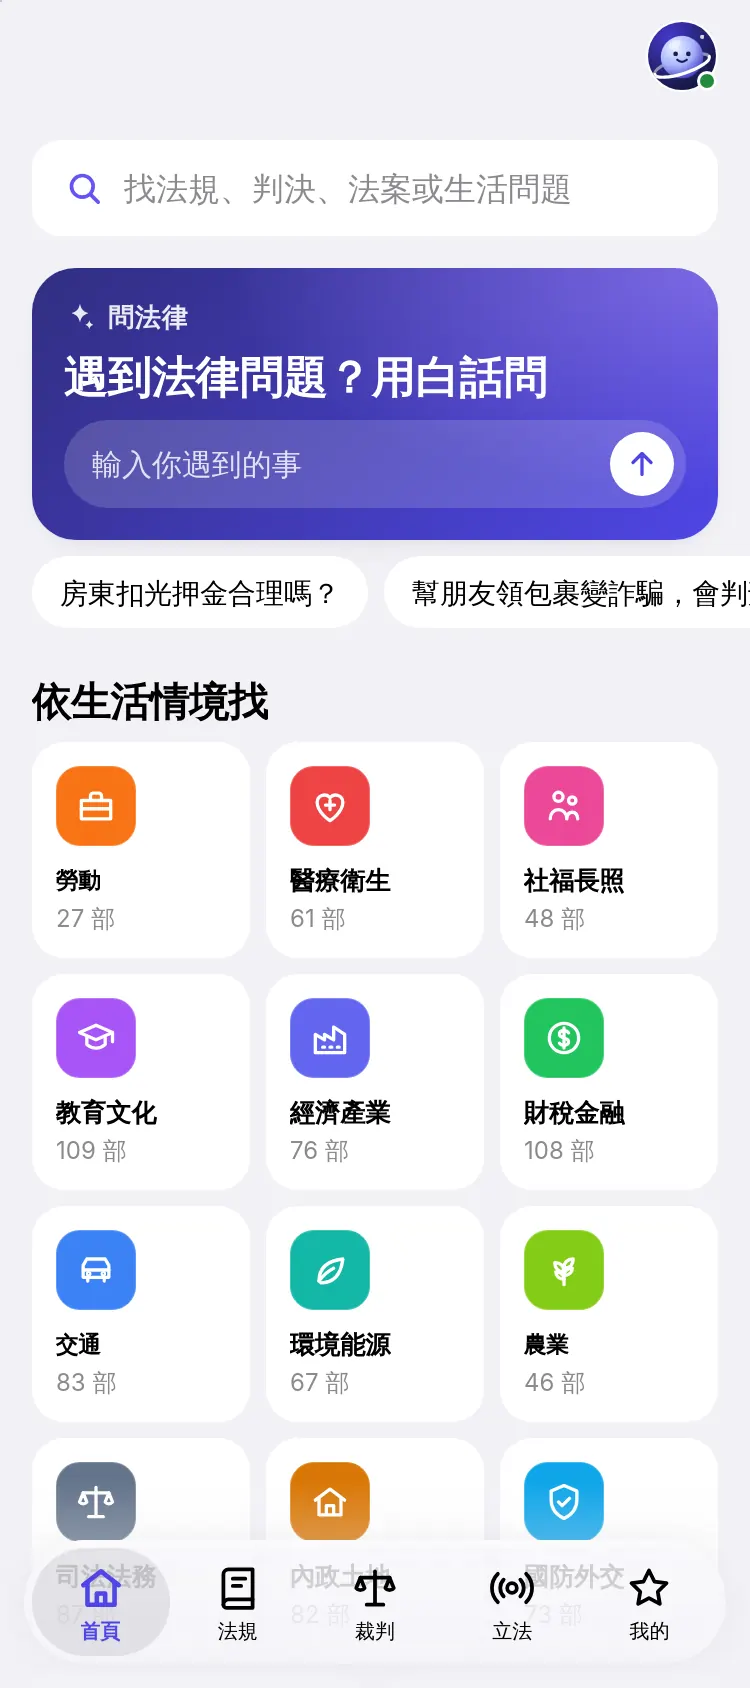
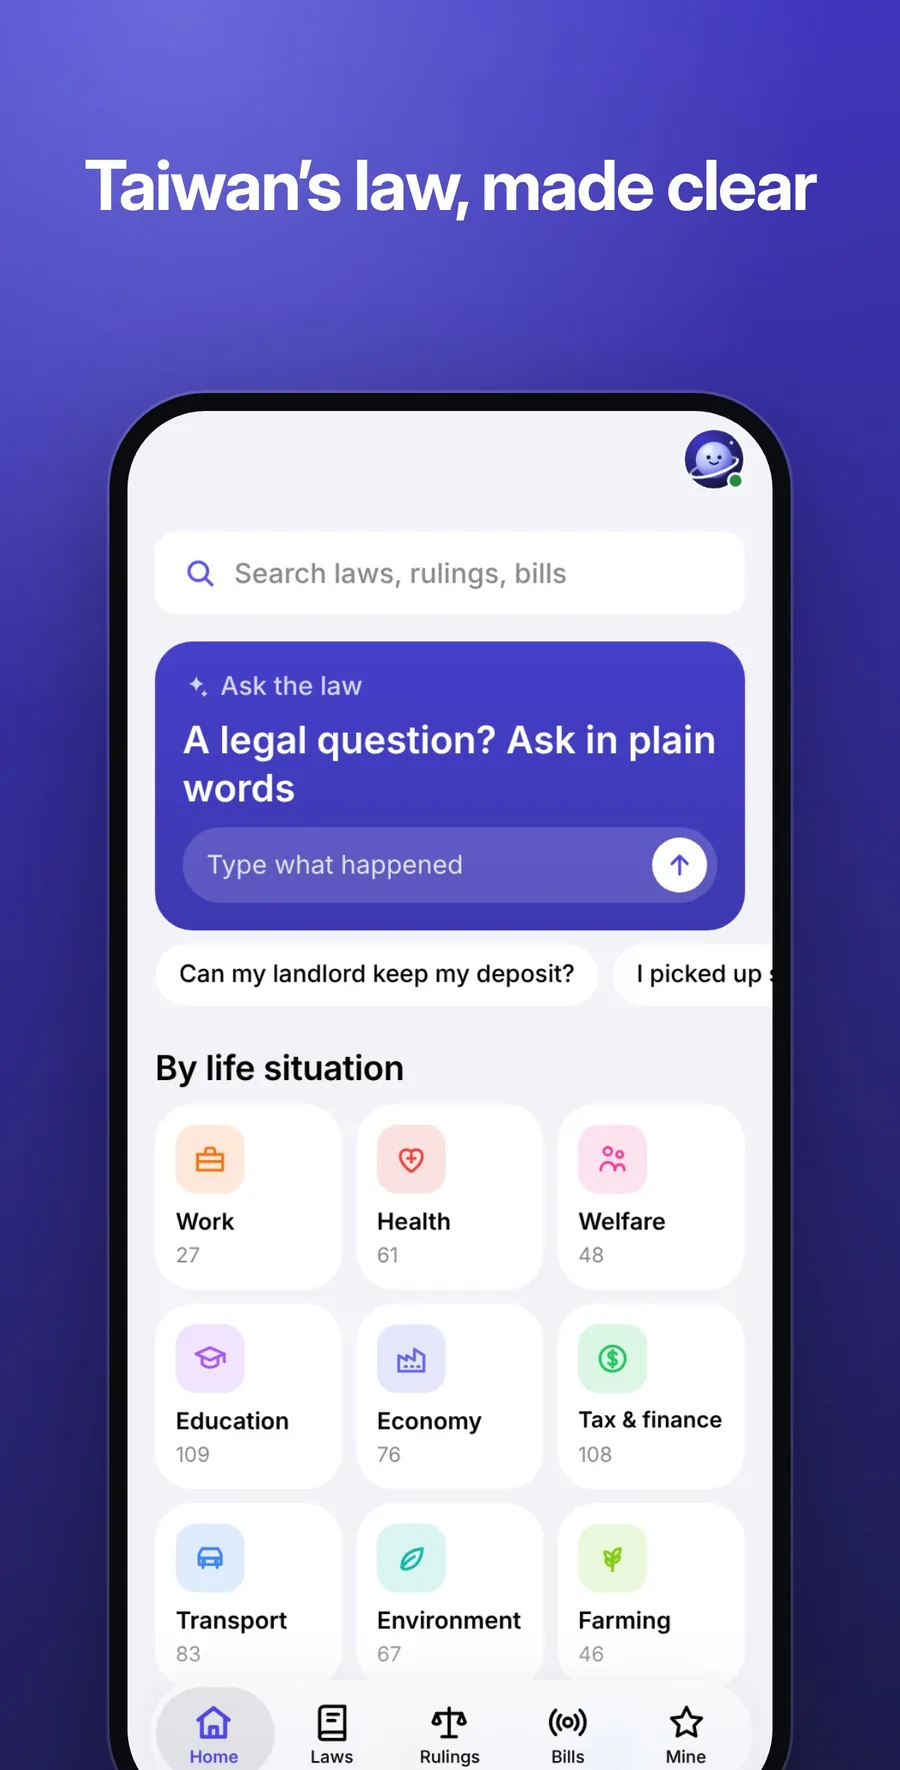
README: six fresh framed screenshots, light and dark, in two rows
Made-up sample data, English, phone width; headline and background only,
the app's pixels untouched.

Claude-Session: https://claude.ai/code/session_01DckgWN5jX3TGSVUUZd7t8V

diff --git a/README.md b/README.md
@@ -16,9 +16,15 @@
 Taiwan's law from three linked sides: the laws to read, the courts' rulings on them, and the bills in 立法院 that will change them. Part of **Orbit**, a family of phone apps for life in Taiwan that share one sign-in, the Orbit Pass. See them all at [orbit.jaypengx.com](https://orbit.jaypengx.com/pass/).
 
 <p align="center">
-  <img src="docs/screenshots/law-1.webp" width="30%" alt="Home">
-  <img src="docs/screenshots/law-2.webp" width="30%" alt="A law, linked">
-  <img src="docs/screenshots/law-4.webp" width="30%" alt="Bills">
+  <img src="docs/screenshots/law-1.webp" width="30%" alt="Taiwan's law, made clear">
+  <img src="docs/screenshots/law-2.webp" width="30%" alt="Every article, every link">
+  <img src="docs/screenshots/law-3.webp" width="30%" alt="Court rulings, searchable">
+</p>
+
+<p align="center">
+  <img src="docs/screenshots/law-4.webp" width="30%" alt="Bills, stage by stage">
+  <img src="docs/screenshots/law-5.webp" width="30%" alt="Every law in one place">
+  <img src="docs/screenshots/law-6.webp" width="30%" alt="Landmark interpretations">
 </p>
 
 ## Features
